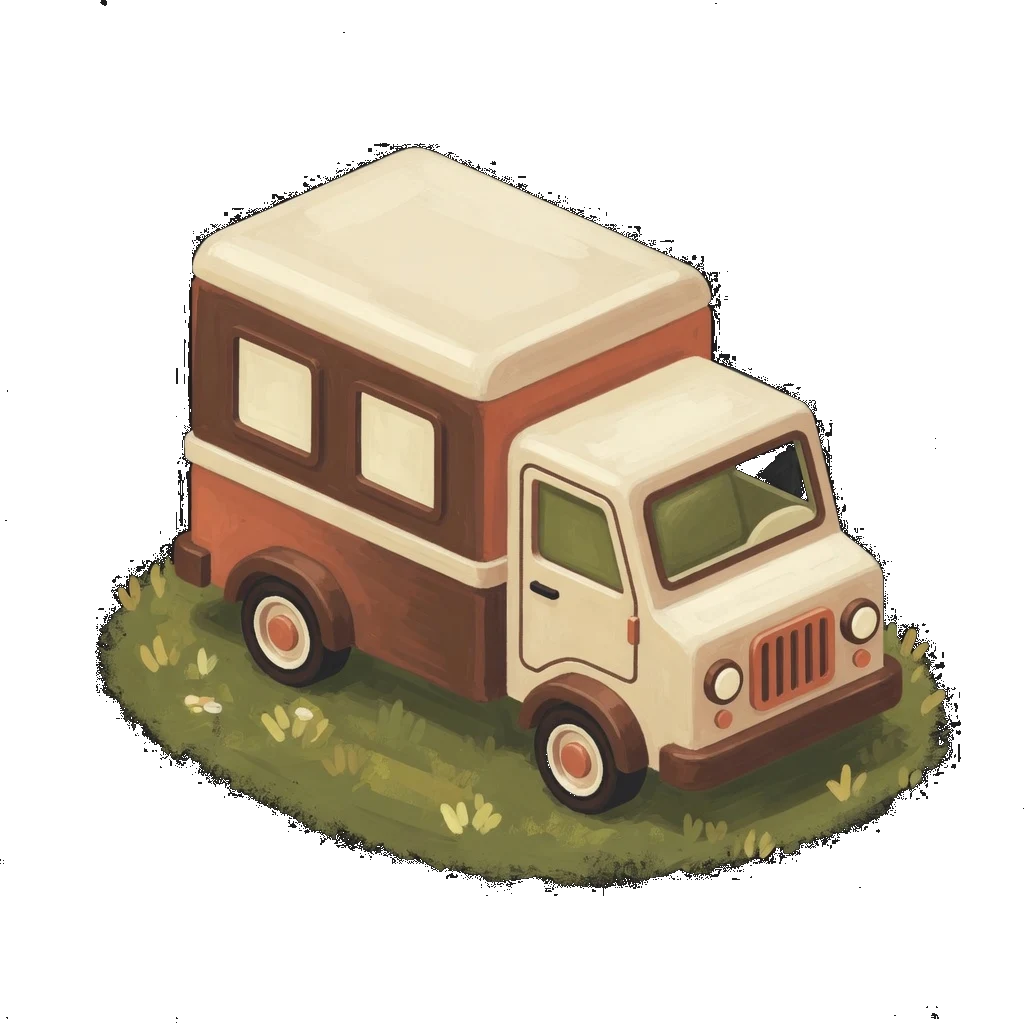
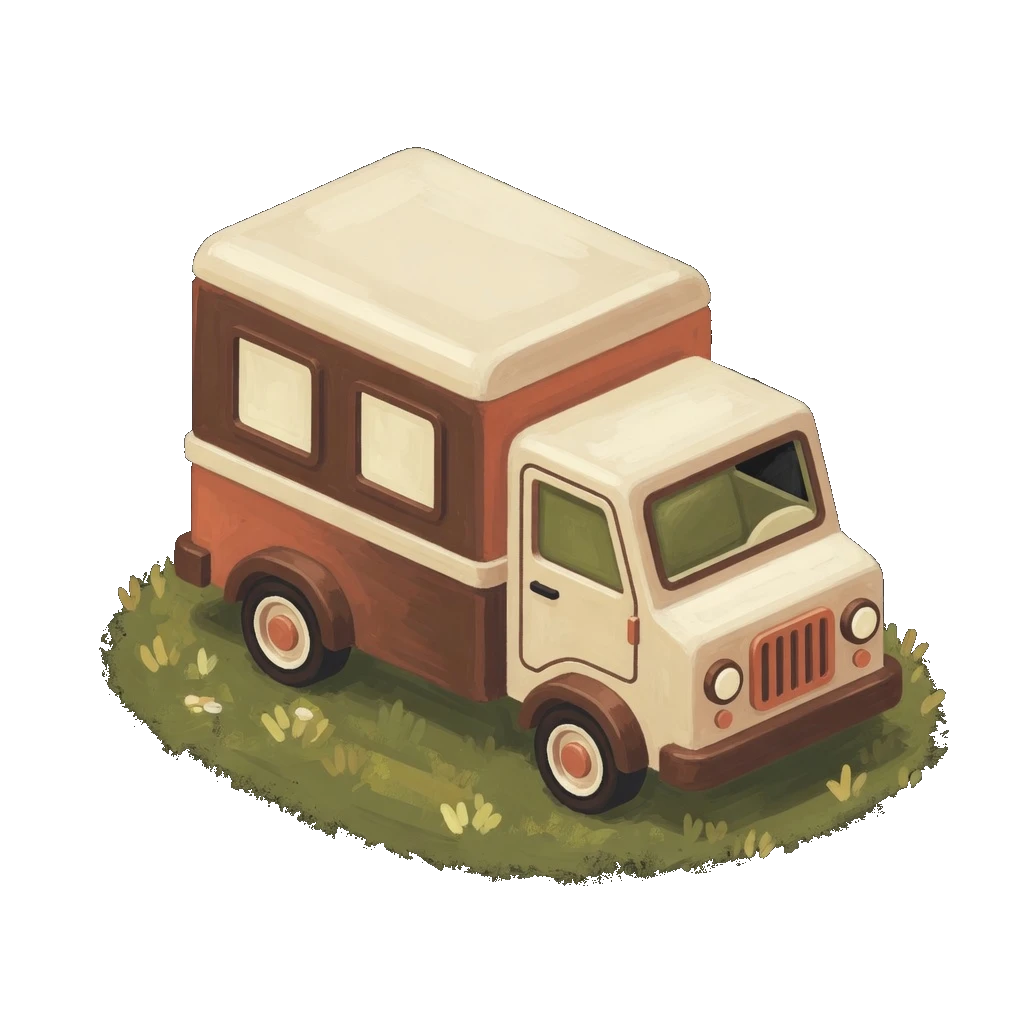
汽车只在商店买，贴图抠掉黑底

diff --git a/src/js/mapview-iso.js b/src/js/mapview-iso.js
@@ -216,7 +216,7 @@
   const FARM_DY = -70;          // −150 (up)   … 0 … +150 (down), pixels
   // 'stall' 2026-08-14 从面板下架: 摊位贴图现在是种子店的专属形象, 再卖同款
   // 装饰摊 = 两个一样的摊分不清哪个能买种子。已放置的照常渲染不受影响。
-  const PALETTE = ['home', 'car', 'barn', 'house', 'greenhouse', 'coop', 'well', 'tree', 'bush', 'lantern', 'fence', 'wheel', 'bridge'];
+  const PALETTE = ['home', 'barn', 'house', 'greenhouse', 'coop', 'well', 'tree', 'bush', 'lantern', 'fence', 'wheel', 'bridge'];
   // 我的家图册。改建只收与现款的差价；另建一座收全价（农户小宅另建至少 cost=300）。
   // lv 存在每座 map 对象上。全场最多 HOME_CAP 座。
   const HOME_CAP = 4;
@@ -2127,15 +2127,6 @@
         }
         if (n > 0) { this._openNewHomePanel(); return; }
       }
-      if (type === 'car') {
-        const n = this._cars().length;
-        if (n >= CAR_CAP) {
-          if (Farm.ui && Farm.ui.toast) Farm.ui.toast(en ? 'Car limit reached. Tap a car to change it.' : '车子已经停满。点现有的车可以换款。');
-          return;
-        }
-        this._openNewCarPanel();
-        return;
-      }
       // unique 建筑（菜摊）全场限一座
       if (b.unique) {
         const map = Farm.state.data.map || [];
@@ -2417,20 +2408,6 @@
           }
           if (n > 0) {
             if (cs) { cs.textContent = en ? 'Build another' : '再建一座'; cs.style.color = '#3a8c50'; }
-            btn.style.opacity = '1';
-            return;
-          }
-        }
-        if (btn.dataset.type === 'car') {
-          const n = this._cars().length;
-          const cs = btn.querySelector('.palCost');
-          if (n >= CAR_CAP) {
-            if (cs) { cs.textContent = en ? '✓ MAX' : '✓ 已满'; cs.style.color = '#9a8f7d'; }
-            btn.style.opacity = '0.5';
-            return;
-          }
-          if (n > 0) {
-            if (cs) { cs.textContent = en ? 'Park another' : '再停一辆'; cs.style.color = '#3a8c50'; }
             btn.style.opacity = '1';
             return;
           }

diff --git a/src/js/guide.js b/src/js/guide.js
@@ -62,8 +62,8 @@
     },
     {
       icon: '🚗',
-      zh: { title: '停自己的车', body: '点右下角<b>建造</b>，选<b>汽车</b>。农用、家用、越野、豪华都能换。点停好的车可以换款，只补差价。' },
-      en: { title: 'Park a car', body: 'Tap <b>Build</b> (bottom-right), then <b>Car</b>. Utility, family, off-road and luxury are in the catalog. Tap a parked car to change it — you pay only the difference.' },
+      zh: { title: '停自己的车', body: '点底部<b>商店</b>，打开<b>汽车</b>分类。农用、家用、越野、豪华都能买。点停好的车可以换款，只补差价。' },
+      en: { title: 'Park a car', body: 'Open <b>Shop</b> at the bottom, then the <b>Cars</b> tab. Utility, family, off-road and luxury are for sale. Tap a parked car to change it — you pay only the difference.' },
     },
     {
       icon: '🏘',

diff --git a/src/js/shop.js b/src/js/shop.js
@@ -184,7 +184,7 @@
       }
       if (!this._carCat) {
         return '<p class="modal-subtitle" style="margin:0 0 8px;">'
-          + (EN ? 'A new car costs the catalog price and parks on free land.' : '新停一辆按图册全价，自动停在空地上。点场上已有的车换款只补差价。')
+          + (EN ? 'Buy a car here. It parks on free land. Tap a parked car to change it and pay only the difference.' : '在商店买车，自动停在空地上。点场上已有的车换款，只补差价。')
           + '</p>' + iso._carCatCardsHtml(EN, 0);
       }
       return '<div style="margin:0 0 8px;display:flex;align-items:center;justify-content:space-between;">'

diff --git a/scripts/_key_car_bg.py b/scripts/_key_car_bg.py
@@ -1,0 +1,106 @@
+#!/usr/bin/env python3
+"""Flood-fill dark studio backdrop off car sprites. Tires stay: they are
+inside the grass oval, so an edge flood cannot reach them."""
+from PIL import Image
+from collections import deque
+import os
+
+ROOT = os.path.dirname(os.path.dirname(os.path.abspath(__file__)))
+SESS = os.path.join(
+    os.path.expanduser('~'), '.grok', 'sessions',
+    'D%3A%5C', '01a00718-f95b-7452-b183-7f5defbb801b', 'images',
+)
+OUT = os.path.join(ROOT, 'src', 'assets', 'images', 'map')
+PAIRS = [
+    (176, 1), (177, 2), (194, 3), (179, 4), (181, 5), (193, 6), (190, 7), (183, 8),
+    (184, 9), (187, 10), (185, 11), (186, 12), (192, 13), (188, 14), (191, 15), (189, 16),
+]
+
+
+def is_bg(r, g, b, br, bg, bb, tol):
+    return abs(r - br) <= tol and abs(g - bg) <= tol and abs(b - bb) <= tol
+
+
+def key_one(src, dst, tol=42):
+    im = Image.open(src).convert('RGBA')
+    w, h = im.size
+    pix = im.load()
+    samples = [pix[0, 0][:3], pix[w - 1, 0][:3], pix[0, h - 1][:3], pix[w - 1, h - 1][:3]]
+    br = sum(s[0] for s in samples) // 4
+    bg = sum(s[1] for s in samples) // 4
+    bb = sum(s[2] for s in samples) // 4
+
+    visited = bytearray(w * h)
+    q = deque()
+
+    def seed(x, y):
+        i = y * w + x
+        if visited[i]:
+            return
+        visited[i] = 1
+        q.append((x, y))
+
+    for x in range(w):
+        seed(x, 0)
+        seed(x, h - 1)
+    for y in range(h):
+        seed(0, y)
+        seed(w - 1, y)
+
+    mask = bytearray(w * h)
+    while q:
+        x, y = q.popleft()
+        r, g, b, a = pix[x, y]
+        if not is_bg(r, g, b, br, bg, bb, tol):
+            continue
+        mask[y * w + x] = 1
+        pix[x, y] = (r, g, b, 0)
+        if x + 1 < w:
+            seed(x + 1, y)
+        if x:
+            seed(x - 1, y)
+        if y + 1 < h:
+            seed(x, y + 1)
+        if y:
+            seed(x, y - 1)
+
+    # Fringe: dark, low-saturation pixels touching keyed bg fade out.
+    for y in range(h):
+        row = y * w
+        for x in range(w):
+            if mask[row + x]:
+                continue
+            r, g, b, a = pix[x, y]
+            if a < 10:
+                continue
+            edge = False
+            for nx, ny in ((x + 1, y), (x - 1, y), (x, y + 1), (x, y - 1),
+                           (x + 1, y + 1), (x - 1, y - 1), (x + 1, y - 1), (x - 1, y + 1)):
+                if 0 <= nx < w and 0 <= ny < h and mask[ny * w + nx]:
+                    edge = True
+                    break
+            if not edge:
+                continue
+            mx, mn = max(r, g, b), min(r, g, b)
+            if mx < 70 and (mx - mn) < 28:
+                dist = abs(r - br) + abs(g - bg) + abs(b - bb)
+                na = 0 if dist < 90 else int(a * (dist - 90) / 80)
+                pix[x, y] = (r, g, b, max(0, min(a, na)))
+
+    im.save(dst, 'WEBP', quality=90, method=4)
+    # stats
+    trans = sum(1 for i in range(0, w * h, 8) if pix[(i % w), (i // w)][3] < 10)
+    print(os.path.basename(dst), 'bg', (br, bg, bb), 'trans_sample', trans)
+
+
+def main():
+    for src_n, dst_n in PAIRS:
+        src = os.path.join(SESS, str(src_n) + '.jpg')
+        dst = os.path.join(OUT, 'p_car_' + str(dst_n) + '.webp')
+        if not os.path.isfile(src):
+            raise SystemExit('missing ' + src)
+        key_one(src, dst)
+
+
+if __name__ == '__main__':
+    main()

diff --git a/docs/WECHAT-SHARE.md b/docs/WECHAT-SHARE.md
@@ -31,7 +31,7 @@ https://farm.easternmarket.ca
 - `promo/poster-phone-onart-06-house.png`
 - `promo/poster-phone-onart-07-cars.png`
 
-汽车：点右下角「建造」→「汽车」。农用/家用/越野/豪华从图册里选。点停好的车可以换款。
+汽车：底部「商店」→「汽车」。农用/家用/越野/豪华从图册里买。点停好的车可以换款。
 
 ---
 
